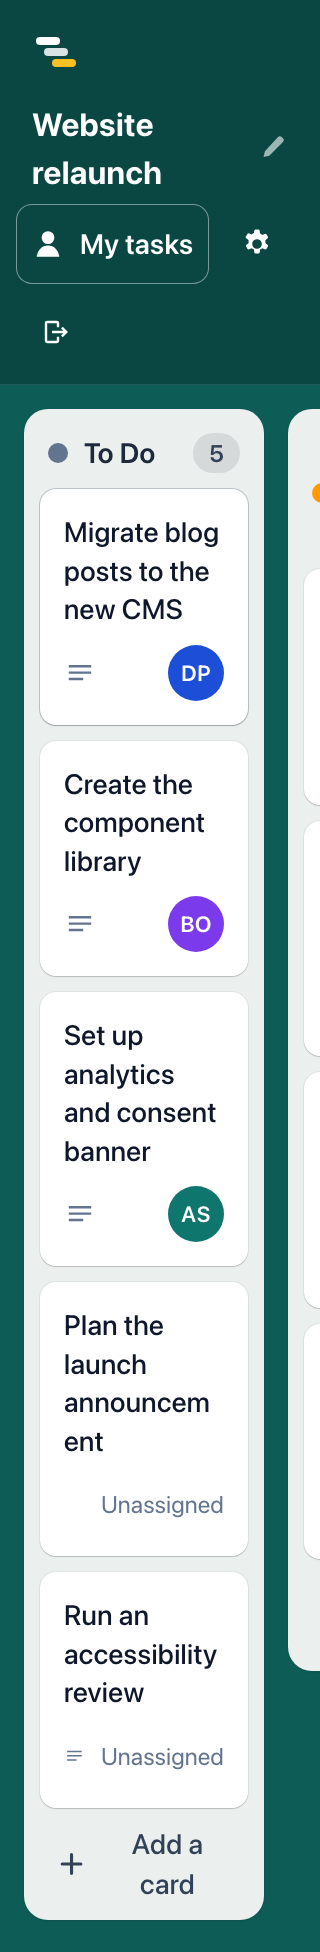
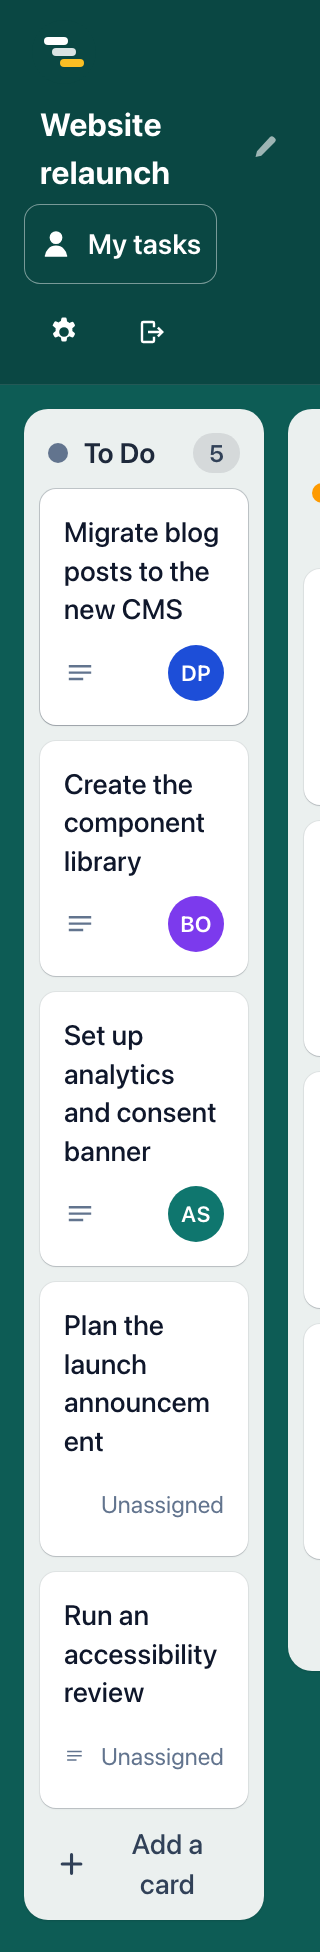
style: final design round (R1-R5) and refreshed README screenshots

Changed region(s): [[0.0938, 0.0, 0.5312, 0.1875], [0.4375, 0.0938, 0.6562, 0.1875], [0.7812, 0.0625, 0.875, 0.125]]

diff --git a/src/pages/BoardPage.tsx b/src/pages/BoardPage.tsx
@@ -15,7 +15,7 @@ function BoardSkeleton() {
       className="relative flex min-h-0 flex-1 gap-3 overflow-hidden px-3 pt-3 sm:px-5"
       aria-busy="true"
     >
-      <div role="status" className="absolute inset-x-0 top-10 z-10 flex justify-center">
+      <div role="status" className="absolute inset-x-4 top-1/3 z-10 flex justify-center">
         <span className="flex items-center gap-2 rounded-full bg-white px-4 py-2 text-sm font-medium text-slate-800 shadow-lg">
           <Spinner className="size-4 text-brand" />
           Loading board…
@@ -67,7 +67,7 @@ export function BoardPage() {
           <button
             type="button"
             onClick={() => setMine(false)}
-            className="focus-ring inline-flex min-h-touch items-center rounded-md px-2 font-semibold underline underline-offset-2 hover:bg-amber-200"
+            className="focus-ring -mx-2 inline-flex min-h-touch items-center rounded-md px-2 font-semibold underline underline-offset-2 hover:bg-amber-200"
           >
             Show all tasks
           </button>

diff --git a/src/app/ToastContext.tsx b/src/app/ToastContext.tsx
@@ -93,14 +93,14 @@ function ToastItem({ toast, onDismiss }: { toast: Toast; onDismiss: (id: number)
         : 'bg-slate-900 text-white';
   return (
     <div
-      className={`pointer-events-auto flex w-full max-w-md items-center gap-2 rounded-lg py-1 pr-1 pl-4 text-sm shadow-lg motion-safe:animate-[toast-in_160ms_ease-out] ${tone}`}
+      className={`pointer-events-auto flex w-full max-w-md items-center gap-1 rounded-lg py-1 pr-0.5 pl-3 text-sm sm:gap-2 sm:pr-1 sm:pl-4 shadow-lg motion-safe:animate-[toast-in_160ms_ease-out] ${tone}`}
       data-testid="toast"
     >
       {toast.tone === 'success' && (
         <svg
           aria-hidden="true"
           viewBox="0 0 20 20"
-          className="size-4 shrink-0 text-emerald-300"
+          className="hidden size-4 shrink-0 text-emerald-300 min-[30rem]:block"
           fill="currentColor"
         >
           <path

diff --git a/src/pages/SettingsPage.tsx b/src/pages/SettingsPage.tsx
@@ -90,7 +90,7 @@ function NameForm({
           hint={lengthHint(value.length, maxLength)}
         />
       </div>
-      <Button type="submit" busy={busy} disabled={!dirty} className="sm:mt-7">
+      <Button type="submit" busy={busy} disabled={!dirty} className="sm:mt-[1.625rem]">
         Save
       </Button>
     </form>
@@ -129,7 +129,7 @@ export function SettingsPage() {
           </h1>
           <Link
             to="/board"
-            className="focus-ring inline-flex min-h-touch items-center gap-1 rounded-lg px-3 text-sm font-semibold text-brand hover:bg-teal-50"
+            className="focus-ring -mx-3 inline-flex min-h-touch items-center gap-1 rounded-lg px-3 text-sm font-semibold text-brand hover:bg-teal-50"
           >
             <span aria-hidden="true">←</span> Back to board
           </Link>

diff --git a/src/components/board/AppHeader.tsx b/src/components/board/AppHeader.tsx
@@ -12,7 +12,7 @@ export function AppHeader() {
 
   return (
     <header className="shrink-0 border-b border-white/10 bg-board-deep text-white">
-      <div className="flex flex-wrap items-center gap-x-2 gap-y-1 px-2 py-1.5 sm:gap-x-3 sm:px-5 sm:py-2">
+      <div className="flex flex-wrap items-center gap-x-2 gap-y-1 px-3 py-1.5 sm:gap-x-3 sm:px-5 sm:py-2">
         <Link
           to="/board"
           className="focus-ring-light flex min-h-touch min-w-touch shrink-0 items-center justify-center gap-2 rounded-md"

diff --git a/docs/REVIEW.md b/docs/REVIEW.md
@@ -155,3 +155,19 @@ Acceptance: **34 PASS, 0 FAIL, 0 PARTIAL**; `npm run lint`, `npm run typecheck`,
 | F9 | trivial | After "Reset demo data" as a newly registered user, the login page said "Your session has ended". | The login page now explains that the reset removed the account and suggests a demo account; no misleading success toast. |
 
 **CI note (round 2):** the first deploy of these fixes failed in its CI job because a new regression test pressed Escape before the dialog had taken focus (the same commit passed in the standalone CI run). Besides making the test wait for the dialog, the app now handles Escape at document level for the topmost dialog, so an early Escape is never ignored. The suite then passed 156/156 across two repeats with 6 workers.
+
+## Round 3: final design review (live site)
+
+Verification of round 2: N1, N3, N4, N5, N6 pass; N8 passes with a mouse (real touch device is an owner check); N2 partly (see R1); N7 left for the owner. No regression in D1–D13. No console errors.
+
+Objective findings (round 3 is the last design round; everything objective was fixed):
+
+| # | Rating | Finding | Outcome |
+|---|---|---|---|
+| R1 | should-fix | Toast text squeezed to ~70 px and broke mid-word at 320 px + 200%. | Fixed: tighter toast padding and gaps on narrow screens; success icon hidden below 30rem. |
+| R2 | nice-to-have | Settings Save buttons 2 px lower than their inputs. | Fixed: offset now equals label height + gap (1.625rem). |
+| R3 | nice-to-have | "Show all tasks" and "Back to board" text indented relative to surrounding text (touch padding). | Fixed: negative margins so the text aligns while the touch target stays 44 px. |
+| R4 | nice-to-have | Loading pill closer than the 16 px gutter to the screen edge at 320 px + 200%, and not centred at 1440 px. | Fixed: inset by the gutter and placed a third of the way down. |
+| R5 | nice-to-have | Header and column strip gutters differed on phones (20 vs 12 px). | Fixed: same side padding. |
+
+Matters of taste and things the reviewer was unsure about are in `docs/UI-REVIEW-CHECKLIST.md` (marked **Needs your eye**).
